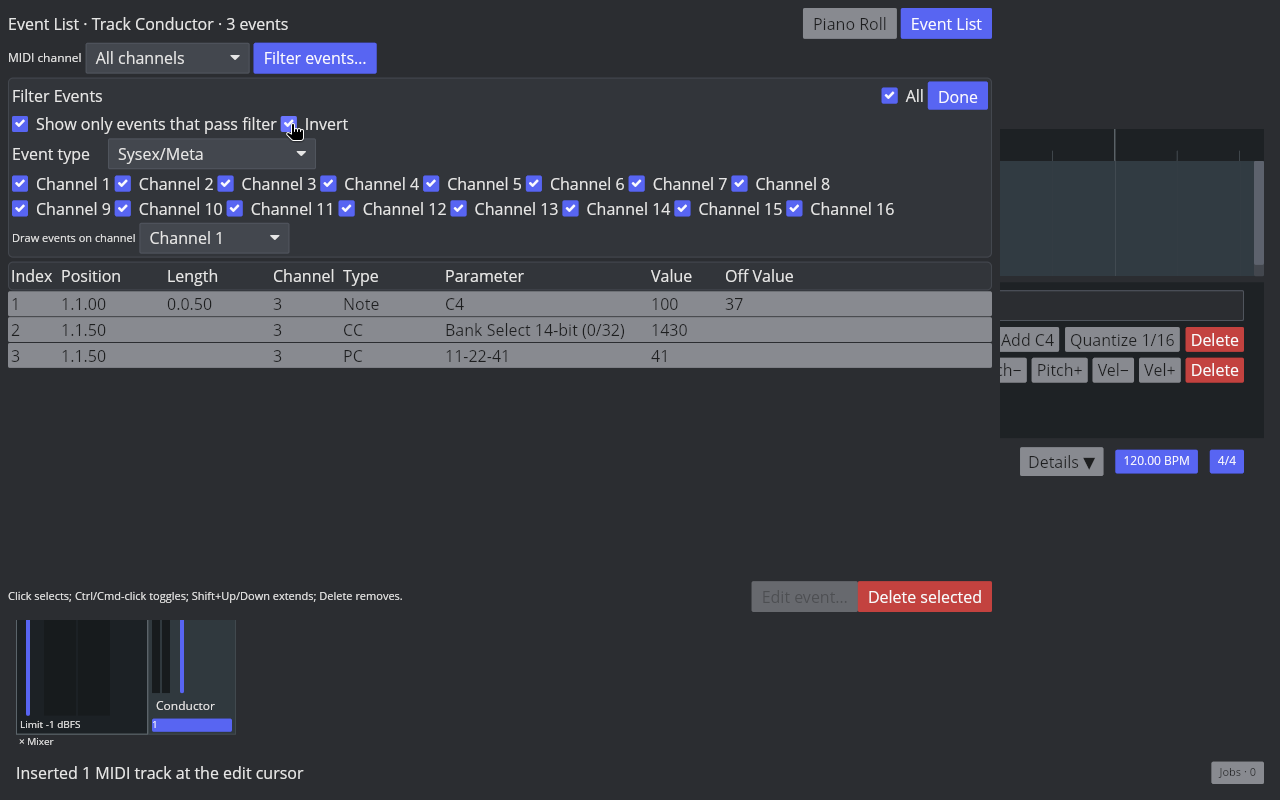
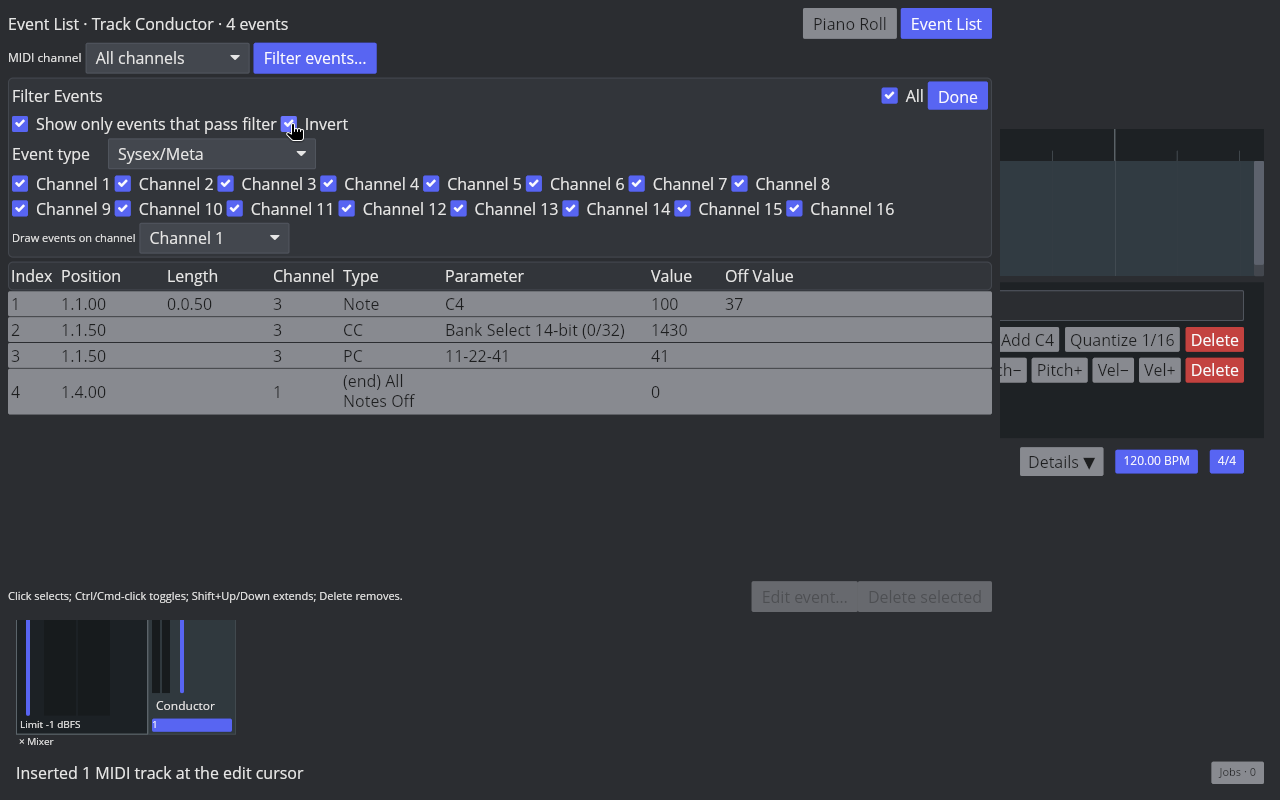
Match inverted MIDI filter end-row behavior

Changed region(s): [[0.0, 0.4375, 0.7812, 0.5312], [0.6562, 0.7188, 0.7812, 0.7812]]

diff --git a/crates/aaadaw/src/app/view/midi_editor.rs b/crates/aaadaw/src/app/view/midi_editor.rs
@@ -339,9 +339,6 @@ impl MidiSnap {
     }
 
     fn end_row_visible(self) -> bool {
-        if self.filter_enabled && self.event_type_filter != MidiEditorEventTypeFilter::AllEvents {
-            return false;
-        }
         self.event_visible(0, MidiEditorEventKind::ControlChange)
     }
 
@@ -8362,7 +8359,8 @@ mod tests {
             ..MidiSnap::default()
         };
         let events = midi_event_list_entries(item, inverted_metadata);
-        assert!(events.is_empty());
+        assert_eq!(events.len(), 1);
+        assert!(matches!(events[0], MidiEventListEntry::End(960)));
     }
 
     #[test]

diff --git a/docs/verification/reaper-parity/midi-event-list.md b/docs/verification/reaper-parity/midi-event-list.md
@@ -4,7 +4,7 @@ Reference: Linux REAPER 7.82, Default 7 theme. MIDI Editor action 40056 switches
 
 AAADAW now exposes Piano Roll and Event List modes in the MIDI Editor and Action List. Event List presents modeled Notes, Control Change, Pitch Bend, Program Change, Poly Aftertouch, and Channel Pressure entries in project BBT positions, with note lengths, one-based channels, parameter/value fields, and off values. When CC0 and CC32 share a tick and channel, it presents them as one `Bank Select 14-bit (0/32)` row whose value is `(MSB × 128) + LSB`; clicking, keyboard-selecting, or deleting that row acts on both stored controller events. Program Change rows show the effective bank and program tuple in Parameter and the zero-based program in Value. Non-Note rows leave Length and Off Value blank. A real-window [Bank Select capture](fixtures/midi-event-list-bank-program-aaadaw.png) shows CC0=12, CC32=23, and Program Change 42 as `1559` and `12-23-42`; selecting and deleting the bank row removes both controllers, leaves the PC at `0-0-42`, and Undo restores the row and tuple. The [case manifest](fixtures/midi-event-list-bank-program-aaadaw.tsv) records the stable desktop build, reusable project generator, and screenshots.
 
-Event List appends `(end) All Notes Off` at the item length as a synthetic cursor row, not a stored or exported MIDI event. An empty item therefore shows one row at its end; the row can be selected and navigated to, and Delete/Backspace leaves the project unchanged. Delete on a modeled row removes that event. Real-window captures verify the empty row, the populated row, no-op deletion of the terminal row, and deletion of a real note. Note rows display persistent MIDI Note Off velocity in `Off Value`; the native and AAADAW fixture uses Note On 91 / Note Off 37 and verifies the displayed 37 in Event List and Event Properties. Apply changes it to 42, and Undo/Redo restore 37/42. See the [note-off velocity fixture manifest](fixtures/midi-note-off-velocity-ui.tsv). REAPER 7.82 displays a Program Change's raw zero-based program number in the Value column. Poly Aftertouch uses the native pitch name (for example `C4`) in Parameter; Channel Pressure has no parameter. Native REAPER and real-window AAADAW captures and readbacks for both pressure event types are in the [aftertouch fixture manifest](fixtures/midi-aftertouch-ui.tsv). The native type filter offers `<all events>`, Note, Poly Aftertouch, Control Change (CC), Program Change (PC), Channel Pressure, Pitch, and the combined `Sysex/Meta` category. Native and AAADAW screenshots confirm that Sysex/Meta includes track-name, text, marker, and SysEx rows; the inverse shows channel events and hides those opaque rows. In either filtered state, REAPER and AAADAW hide the synthetic terminal row. AAADAW applies the same filtering to the visible rows and keyboard-navigation candidates. See the [type-filter fixture manifest](fixtures/midi-event-filter-ui.tsv). Ctrl/Cmd-click toggles a row, and deleting selected events creates one undoable transaction. The in-memory mode does not alter MIDI project data.
+Event List appends `(end) All Notes Off` at the item length as a synthetic cursor row, not a stored or exported MIDI event. An empty item therefore shows one row at its end; the row can be selected and navigated to, and Delete/Backspace leaves the project unchanged. Delete on a modeled row removes that event. Real-window captures verify the empty row, the populated row, no-op deletion of the terminal row, and deletion of a real note. Note rows display persistent MIDI Note Off velocity in `Off Value`; the native and AAADAW fixture uses Note On 91 / Note Off 37 and verifies the displayed 37 in Event List and Event Properties. Apply changes it to 42, and Undo/Redo restore 37/42. See the [note-off velocity fixture manifest](fixtures/midi-note-off-velocity-ui.tsv). REAPER 7.82 displays a Program Change's raw zero-based program number in the Value column. Poly Aftertouch uses the native pitch name (for example `C4`) in Parameter; Channel Pressure has no parameter. Native REAPER and real-window AAADAW captures and readbacks for both pressure event types are in the [aftertouch fixture manifest](fixtures/midi-aftertouch-ui.tsv). The native type filter offers `<all events>`, Note, Poly Aftertouch, Control Change (CC), Program Change (PC), Channel Pressure, Pitch, and the combined `Sysex/Meta` category. Native and AAADAW screenshots confirm that Sysex/Meta includes track-name, text, marker, and SysEx rows; the inverse hides those opaque rows and shows channel events together with `(end) All Notes Off`, which is a non-Sysex/Meta event. Direct Sysex/Meta filtering hides the synthetic terminal row. AAADAW applies the same matching to visible rows and keyboard-navigation candidates. See the [type-filter fixture manifest](fixtures/midi-event-filter-ui.tsv). Ctrl/Cmd-click toggles a row, and deleting selected events creates one undoable transaction. The in-memory mode does not alter MIDI project data.
 
 For one or more selected rows of the same modeled type, `Edit event…` and action 40004 (`Ctrl+F2`) open Event Properties. Notes expose absolute Position, Length, Channel, Pitch, Note On Velocity, and Note Off velocity; CC events expose Position, Channel, Controller, and Value; Pitch Bend exposes Position, Channel, and raw 14-bit Value; Program Change exposes Position, MIDI channel, its zero-based Program number, and Bank MSB/LSB backed by CC0/CC32. REAPER opens a dedicated `Bank/Program Select` dialog for a Program Change. AAADAW matches the editable bank values; patch-file selection remains open. Apply leaves the dialog open after one undoable update; OK commits and closes it; Cancel and Escape discard the current uncommitted fields. The separate [Event Properties verification](midi-event-properties.md) records the measured native dialogs and AAADAW windows.
 

diff --git a/docs/reaper-parity/progress.md b/docs/reaper-parity/progress.md
@@ -2379,8 +2379,8 @@ MIDI Event List 的 opaque Meta/SysEx 行现进入 Ctrl/Command 多选与 Shift+
 
 ### 2026-10-18 Event List Sysex/Meta 类型过滤
 
-Linux REAPER 7.82 / Default 7 原厂 Filter Events 窗口确认事件类型列表及顺序为 `<all events>`、Note、Poly Aftertouch、Control Change (CC)、Program Change (PC)、Channel Pressure、Pitch、Sysex/Meta。原厂将 SysEx 与所有 Meta 合并为同一筛选项。导入 Type 1 探针后启用 Sysex/Meta 过滤，REAPER 显示 Track name、Text、Marker、SysEx 行，隐藏 Note/CC/PC 与合成 `(end)` 行；反转后显示 Note/CC/PC，隐藏全部 Meta/SysEx，并且仍隐藏 `(end)`。原厂选项、正向筛选和反向筛选实窗截图已登记在 [Event List filter manifest](../verification/reaper-parity/fixtures/midi-event-filter-ui.tsv)。
+Linux REAPER 7.82 / Default 7 原厂 Filter Events 窗口确认事件类型列表及顺序为 `<all events>`、Note、Poly Aftertouch、Control Change (CC)、Program Change (PC)、Channel Pressure、Pitch、Sysex/Meta。原厂将 SysEx 与所有 Meta 合并为同一筛选项。导入 Type 1 探针后启用 Sysex/Meta 过滤，REAPER 显示 Track name、Text、Marker、SysEx 行，隐藏 Note/CC/PC 与合成 `(end)` 行；反转后显示 Note/CC/PC 以及合成 `(end) All Notes Off`，隐藏全部 Meta/SysEx。原厂选项、正向筛选和反向筛选实窗截图已登记在 [Event List filter manifest](../verification/reaper-parity/fixtures/midi-event-filter-ui.tsv)。
 
[2 lines of base64/hex data omitted]
 
 AAADAW 全量 App 测试 **771/771**、workspace strict all-target Clippy (`-D warnings`)、stable fmt 与 diff 检查通过。原厂实测目前只覆盖 Sysex/Meta 正向/反向筛选；其他类型组合、通道 mask 交互、Parameter/Value/Position/Repeat/Length、Solo 和 Set/Add/Remove selection 控件仍待实现或探测；opaque 事件属性编辑、REAPER Data、SysEx/Meta 播放、其余排序/列交互及 source-offset/loop 显示仍开放。`MIDI-EVENT-LIST-001`、UI-019、P7 继续保持 `in_progress`。
